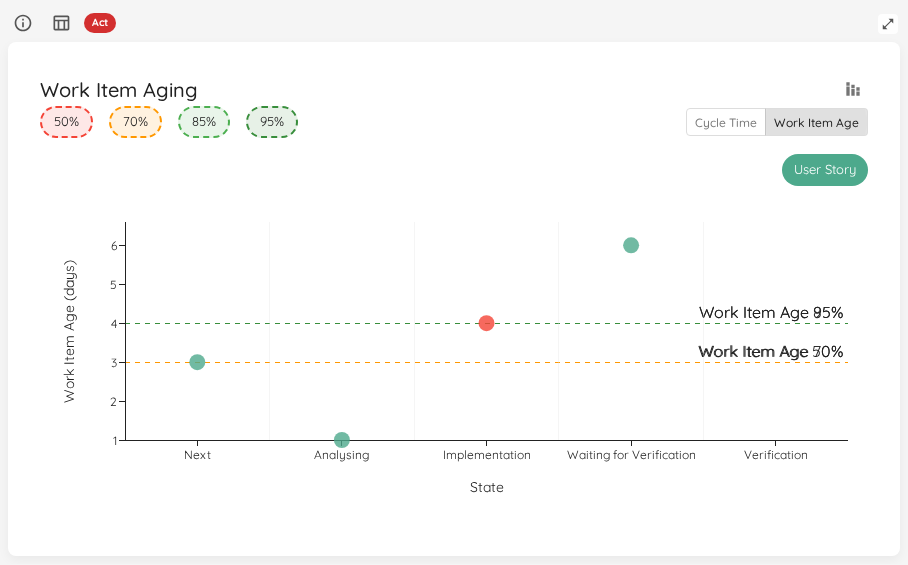
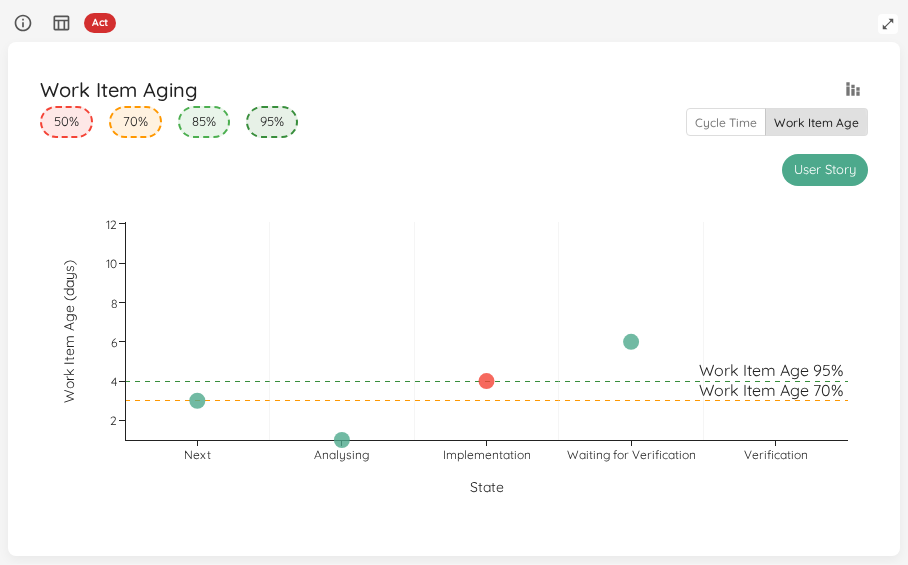
docs(metrics): work item age percentiles card + aging selector docs + regenerated screenshot
- Add Work Item Age Percentiles card section (live in-progress WIP age snapshot,
  Team + Portfolio scope, empty state)
- Document the Cycle Time / Work Item Age reference-line selector on the aging
  chart (y-axis stays cycle-time-anchored; overlapping lines collapse to highest)
- Regenerate agingWorkItemAgeReferenceLines.png against the fixed chart code

diff --git a/docs/metrics/widgets.md b/docs/metrics/widgets.md
@@ -37,7 +37,7 @@ Widgets are organized into four dashboard categories. Each category groups relat
 
 | Category | Question it answers | Widgets |
 |---|---|---|
-| **Flow Overview** | How is my system doing at a glance? | WIP Overview, Blocked Overview, Stale Items Overview, Features Worked On Overview (Teams only), Total Work Item Age, Flow Efficiency, Predictability Score, Cycle Time Percentiles, Started vs. Closed (Total Throughput & Total Arrivals), Feature Size Percentiles (Portfolios only) |
+| **Flow Overview** | How is my system doing at a glance? | WIP Overview, Blocked Overview, Stale Items Overview, Features Worked On Overview (Teams only), Total Work Item Age, Flow Efficiency, Predictability Score, Cycle Time Percentiles, Work Item Age Percentiles, Started vs. Closed (Total Throughput & Total Arrivals), Feature Size Percentiles (Portfolios only) |
 | **Flow Metrics** | What do detailed flow trends look like? | Cycle Time Scatterplot, Work Item Aging Chart, Cumulative Time per State, Load Balance Matrix, Throughput Run Chart, Simplified CFD, WIP Over Time, Total Work Item Age Over Time |
 | **Predictability** | Can we trust our forecasts? | Predictability Score Details, Arrivals Run Chart, Throughput PBC, Arrivals PBC, WIP PBC, Total Work Item Age PBC, Cycle Time PBC, Feature Size PBC (Portfolios only) |
 | **Portfolio & Features** | How do features flow through the system? | Work Distribution, Feature Size (Portfolios only), Estimation vs. Cycle Time |
@@ -236,6 +236,17 @@ If there is a blocked item, it will appear as a red dot in the chart.
 
 {: .note}
 Jira note: Lighthouse identifies blocked items using the blocked tags or blocked states configured on Teams/Portfolios. If you use Jira's built-in `Flag` feature, add a `Flagged` label to your blocked tags so flagged issues appear as blocked in charts and widgets.
+
+## Cycle Time vs. Work Item Age Reference Lines
+
+The **Cycle Time / Work Item Age** selector in the top-right of the chart swaps the horizontal reference lines between two sources:
+
+- **Cycle Time** — the historical cycle-time percentiles of completed work for the selected range (the default).
+- **Work Item Age** — the [Work Item Age percentiles](#work-item-age-percentiles) of the current in-progress items, letting you compare each item against how long today's work in progress is actually taking.
+
+![Work Item Aging Chart with Work Item Age reference lines](../assets/features/metrics/agingWorkItemAgeReferenceLines.png)
+
+The y-axis stays anchored to cycle time regardless of the selection, so the [pace percentile bands](#pace-percentile-bands) keep their scale when you switch. When two percentiles fall on the same value, only the highest percentile's line and label are drawn.
 
 ## Pace Percentile Bands
 
@@ -633,6 +644,21 @@ Use the **View Data** button in the widget header to see all items that were clo
 | 🔴 Act | No SLE is configured, *or* no closed items exist in the range, *or* the percentage of items within the SLE is more than 20 percentage points below the SLE target. |
 | 🟡 Observe | The percentage of items within the SLE is below the target by up to 20 percentage points. |
 | 🟢 Sustain | The percentage of items within the SLE meets or exceeds the configured target percentile. Consider tightening the target. |
+
+# Work Item Age Percentiles
+
+|--------------|-------------------------|
+| **Applies to** | Teams and Portfolios |
+| **Flow Metric** | Work Item Age |
+| **Affected by Filtering** | Yes |
+
+This overview widget shows the 50th, 70th, 85th, and 95th percentiles of **Work Item Age** for the items that are currently in progress. Unlike [Cycle Time Percentiles](#cycle-time-percentiles), which summarizes completed work, this is a live snapshot of how long your in-progress work has been ageing right now.
+
+![Work Item Age Percentiles](../assets/features/metrics/workItemAgePercentilesCard.png)
+
+The same percentiles can be overlaid as reference lines on the [Work Item Aging Chart](#cycle-time-vs-work-item-age-reference-lines) via its Cycle Time / Work Item Age selector.
+
+When no work is in progress, the widget shows an empty state instead of percentile values.
 
 # Feature Size Percentiles
 